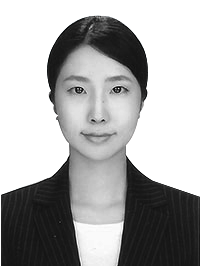
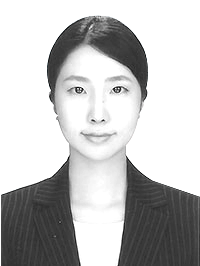
2020.01.26 updated
add a profile pic

diff --git a/cv_style.css b/cv_style.css
@@ -67,7 +67,7 @@ body{width:100%;text-align: center;background-color:#f1edec;}
 /* header */
 .header{margin:0 auto;width:850px}
 .header .profile_pic{margin: 0 auto 35px;width:160px; height: 160px;border-radius: 50%; background-color: #b1c9b6;}
-.header .profile_pic div{margin:0 auto;width: 150px;height:150px; border-radius: 50%; background:url(./profile_pic.png) 10px 20px no-repeat;background-size: contain;}
+.header .profile_pic div{margin:0 auto;width: 150px;height:150px; border-radius: 50%; background:url(./img/profile.png) 19px 10px no-repeat;background-size: contain;}
 .header h1{margin:0 auto 100px;letter-spacing: 5px;font-weight: lighter;}
 .header h1 a{font-family: 'Nanum Myeongjo', serif;display:inline-block;width:100%;height: 100%;;color:#6d6e70;font-size: 13px;line-height: 25px;animation-name: title;animation-duration: 3s;animation-iteration-count: infinite;}
 @keyframes title{
